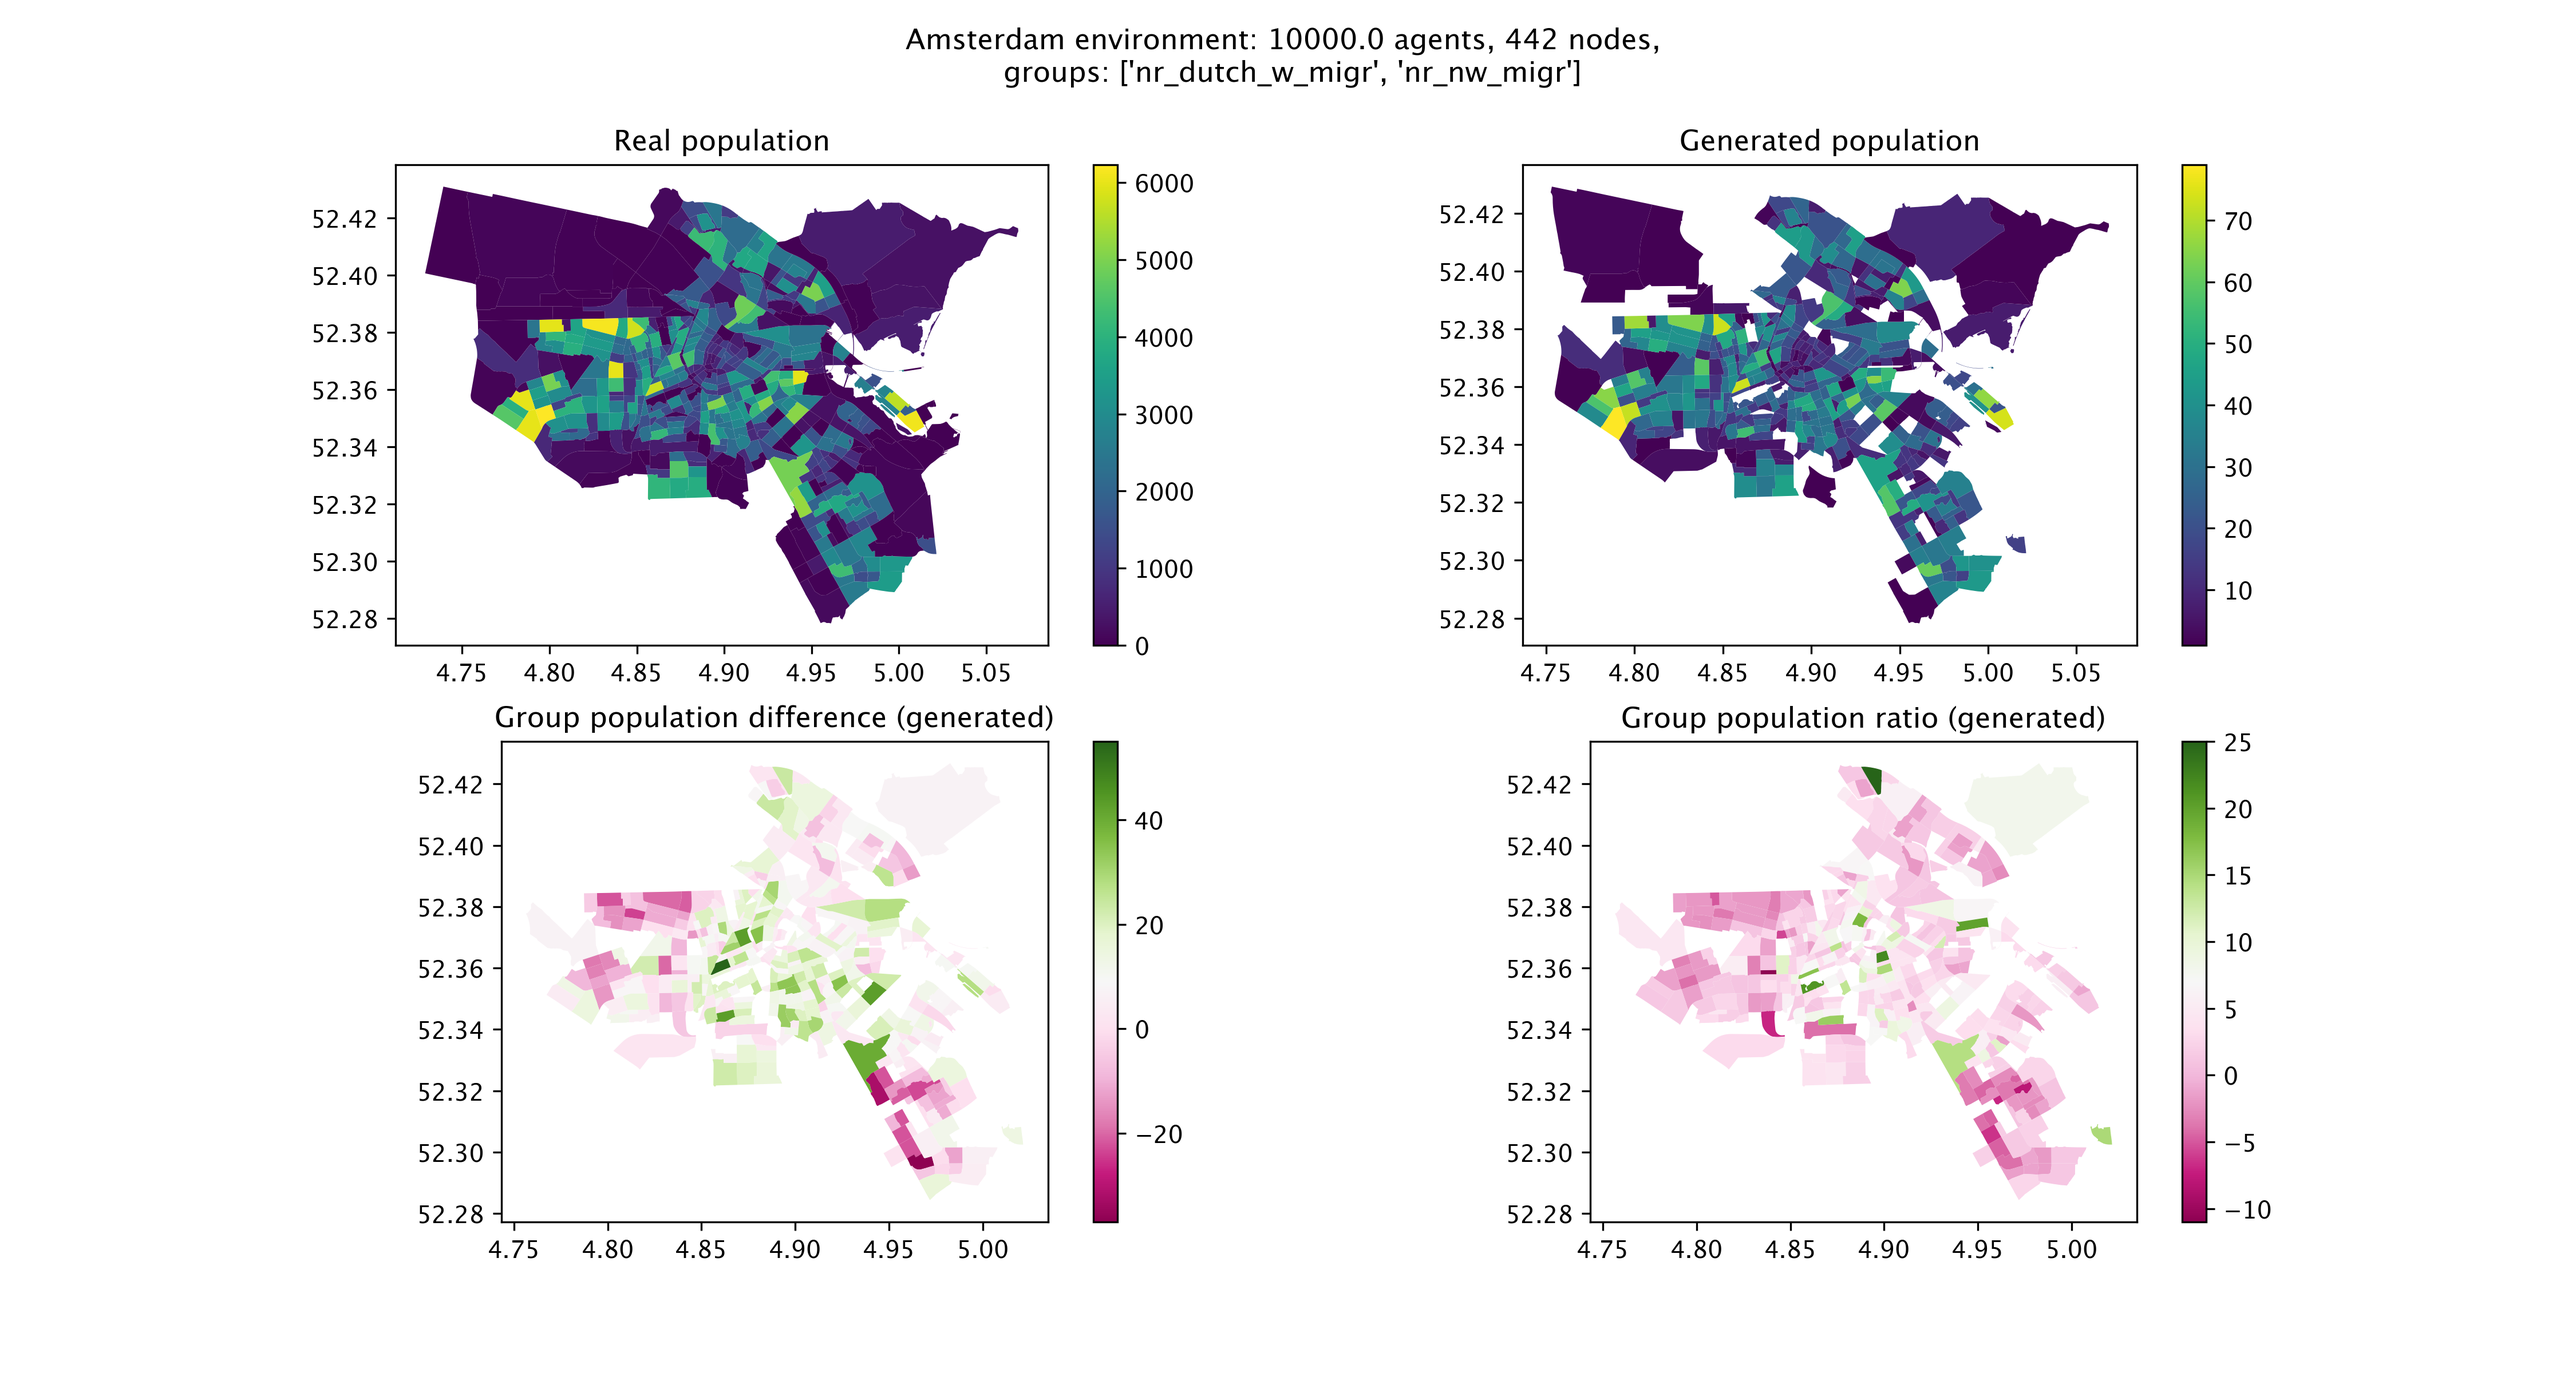
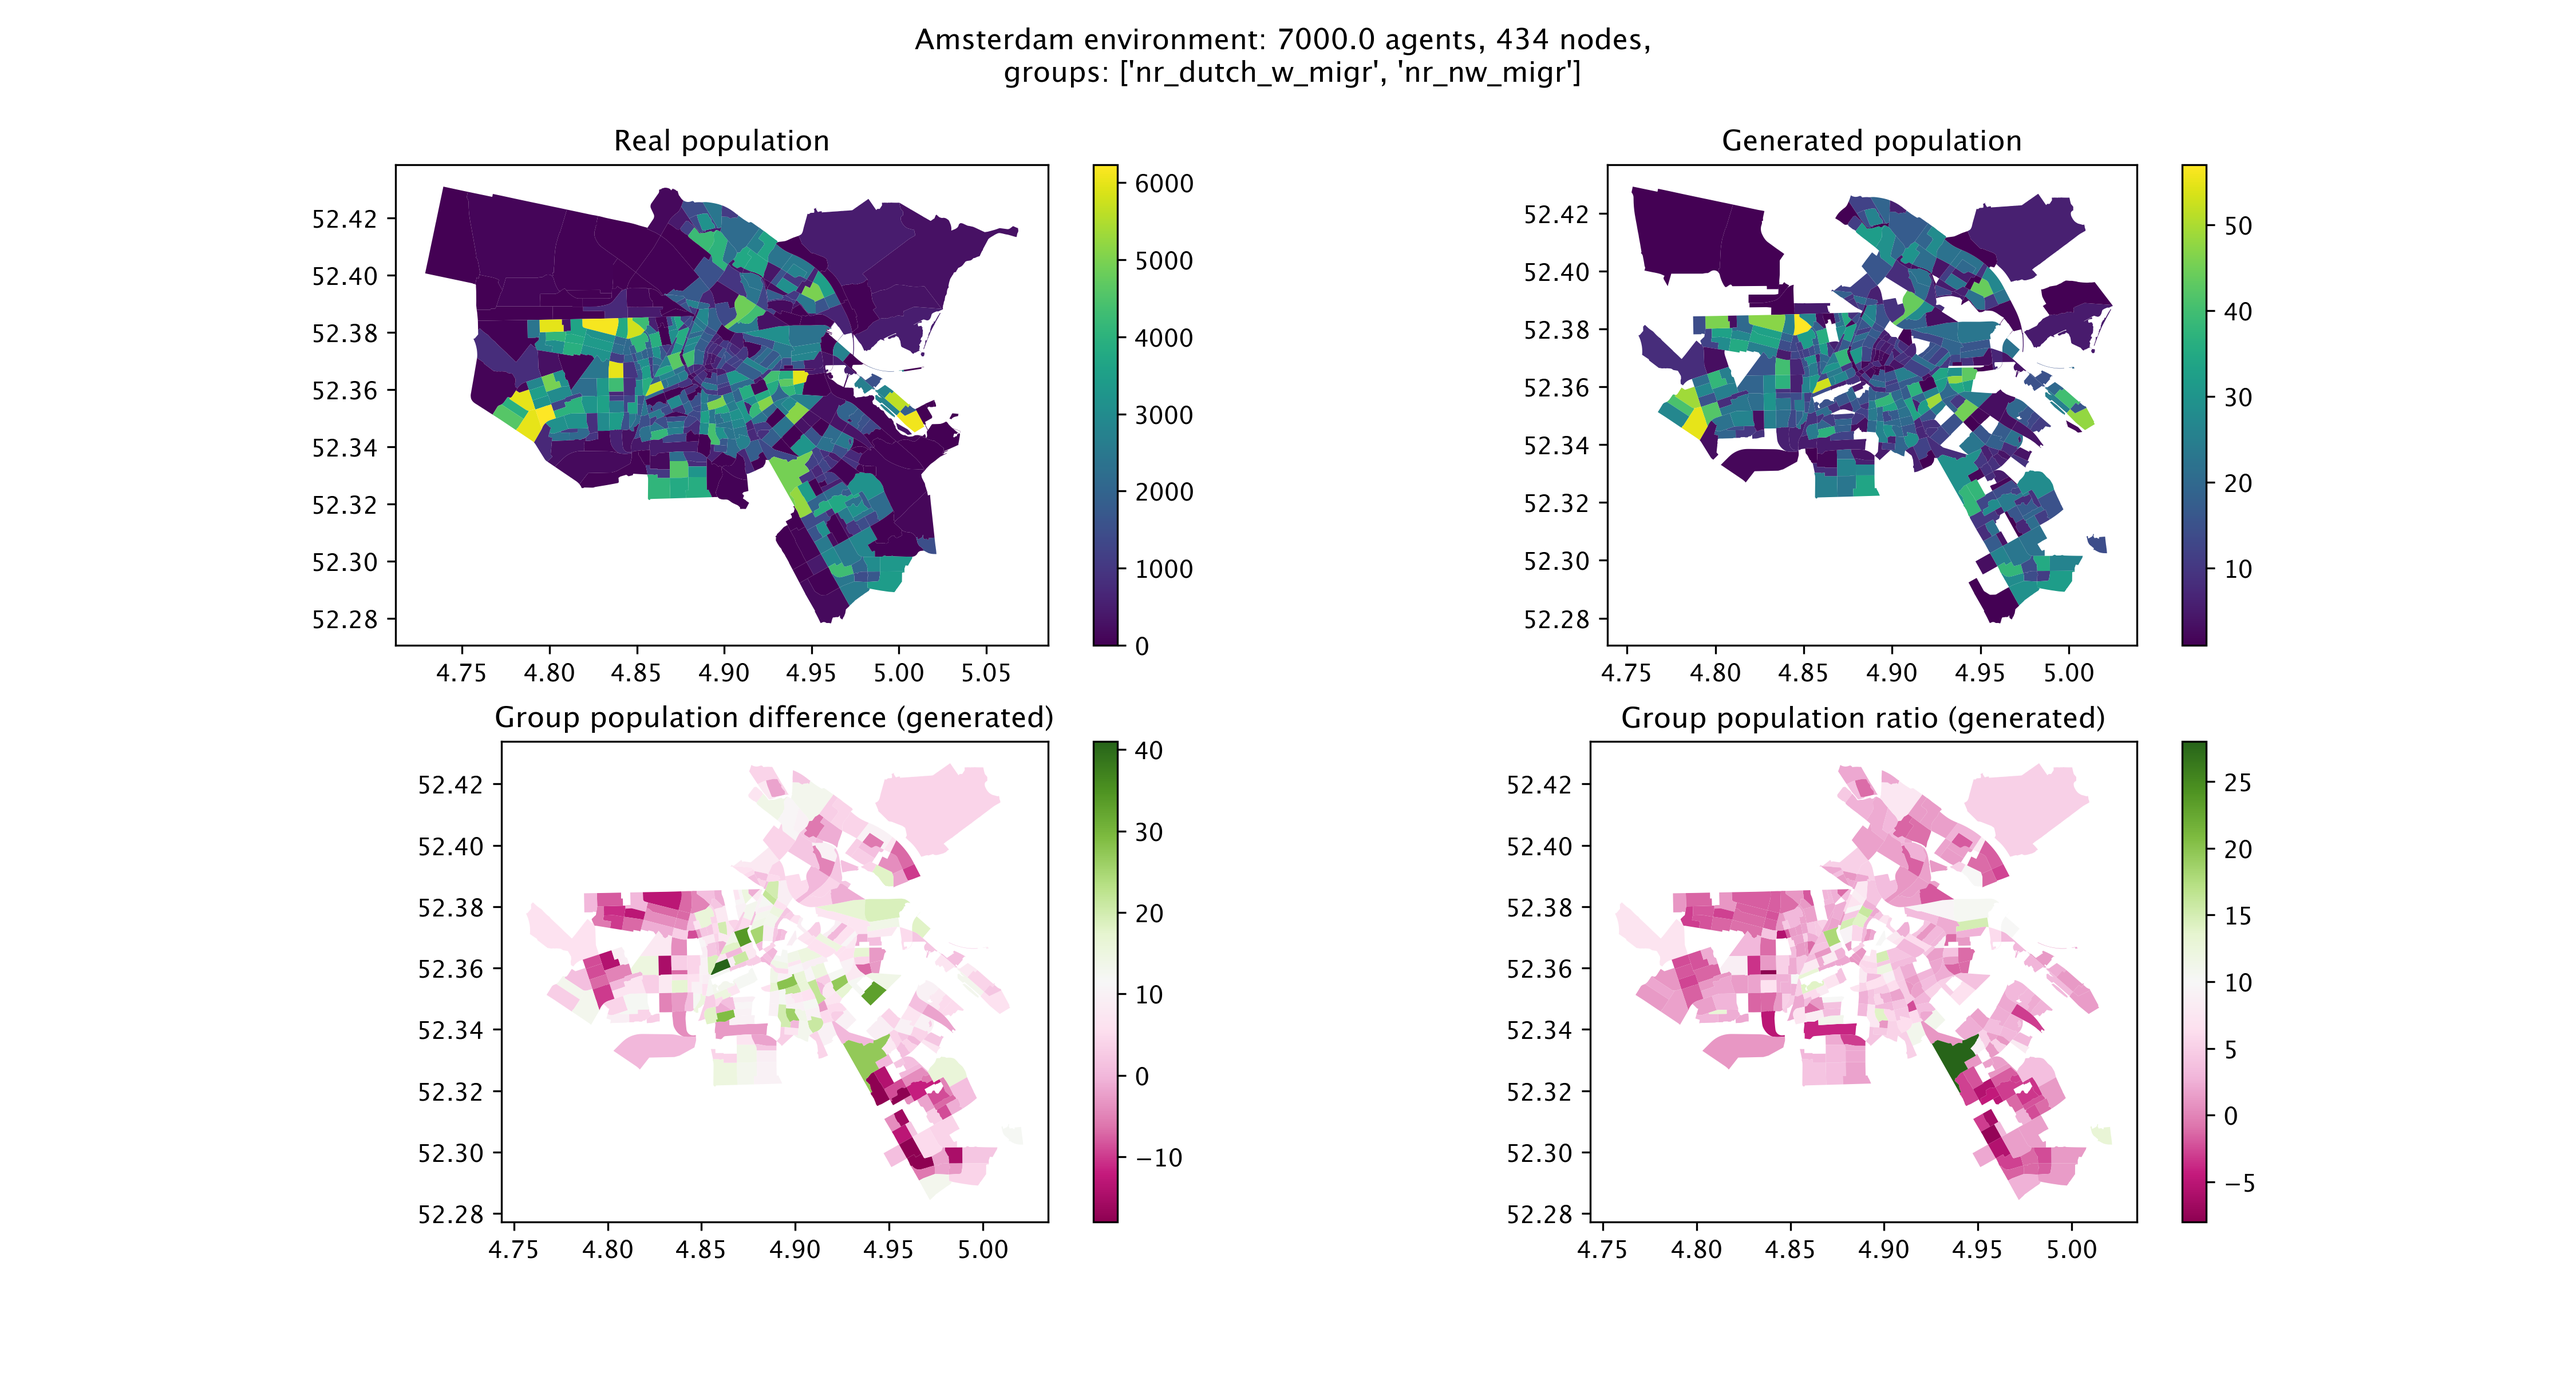
ams_env now generates 7k populatipon

diff --git a/result_plotter.py b/result_plotter.py
@@ -52,14 +52,22 @@ def plot_results(results, ax):
 
 # # results to plot
 results_ams = [
-        '20230213_11_22_58.311840_amsterdam_neighborhoods_50_5_25_1_distance_composition_random_serial_dictatorship_none',
-        '20230213_11_23_05.508838_amsterdam_neighborhoods_50_5_25_1_distance_composition_random_serial_dictatorship_random',
-        '20230213_11_23_16.596338_amsterdam_neighborhoods_50_5_25_1_distance_composition_random_serial_dictatorship_closeness',
-        '20230213_11_28_21.533442_amsterdam_neighborhoods_50_5_25_1_distance_composition_random_serial_dictatorship_group_closeness',
-        '20230213_11_23_27.183322_amsterdam_neighborhoods_50_5_25_1_distance_composition_random_serial_dictatorship_betweenness',
-        '20230213_15_26_16.628397_amsterdam_neighborhoods_50_5_25_1_distance_composition_random_serial_dictatorship_group_betweenness',
-        '20230213_11_24_02.853325_amsterdam_neighborhoods_50_5_25_1_distance_composition_random_serial_dictatorship_degree',
-        '20230213_11_28_34.792581_amsterdam_neighborhoods_50_5_25_1_distance_composition_random_serial_dictatorship_group_degree'
+        # '20230213_11_22_58.311840_amsterdam_neighborhoods_50_5_25_1_distance_composition_random_serial_dictatorship_none',
+        # '20230213_11_23_05.508838_amsterdam_neighborhoods_50_5_25_1_distance_composition_random_serial_dictatorship_random',
+        # '20230213_11_23_16.596338_amsterdam_neighborhoods_50_5_25_1_distance_composition_random_serial_dictatorship_closeness',
+        # '20230213_11_28_21.533442_amsterdam_neighborhoods_50_5_25_1_distance_composition_random_serial_dictatorship_group_closeness',
+        # '20230213_11_23_27.183322_amsterdam_neighborhoods_50_5_25_1_distance_composition_random_serial_dictatorship_betweenness',
+        # '20230213_15_26_16.628397_amsterdam_neighborhoods_50_5_25_1_distance_composition_random_serial_dictatorship_group_betweenness',
+        # '20230213_11_24_02.853325_amsterdam_neighborhoods_50_5_25_1_distance_composition_random_serial_dictatorship_degree',
+        # '20230213_11_28_34.792581_amsterdam_neighborhoods_50_5_25_1_distance_composition_random_serial_dictatorship_group_degree'
+        '20230216_12_17_38.193762_amsterdam_neighborhoods_50_5_25_1_distance_composition_random_serial_dictatorship_none',
+        '20230216_12_19_06.993941_amsterdam_neighborhoods_50_5_25_1_distance_composition_random_serial_dictatorship_random',
+        '20230216_12_19_12.579556_amsterdam_neighborhoods_50_5_25_1_distance_composition_random_serial_dictatorship_closeness',
+        '20230216_12_35_28.835175_amsterdam_neighborhoods_50_5_25_1_distance_composition_random_serial_dictatorship_group_closeness',
+        '20230216_12_19_57.731536_amsterdam_neighborhoods_50_5_25_1_distance_composition_random_serial_dictatorship_betweenness',
+        '20230216_16_30_50.088071_amsterdam_neighborhoods_50_5_25_1_distance_composition_random_serial_dictatorship_group_betweenness',
+        '20230216_12_35_17.607961_amsterdam_neighborhoods_50_5_25_1_distance_composition_random_serial_dictatorship_degree',
+        '20230216_12_35_40.385648_amsterdam_neighborhoods_50_5_25_1_distance_composition_random_serial_dictatorship_group_degree'
         ]
 
 # results to plot

diff --git a/envs/amsterdam_neighborhoods/generate_ams_neighborhoods.py b/envs/amsterdam_neighborhoods/generate_ams_neighborhoods.py
@@ -62,7 +62,7 @@ ig.write(graph_raw, 'network_raw.gml')
 # %% Generate population of agents for each node in the network.
 graph = ig.Graph.Read('network.gml')
 ams_nb['node_id'] = [v.index for v in nb_nodes]
-generated_pop = 10000
+generated_pop = 7000
 # Keep only relevant ses attributes.
 ams_ses = ams_ses[['BU_CODE', 'real_pop', 'nr_dutch', 'nr_w_migr', 'nr_nw_migr']]
 ams_ses.loc[:, 'nr_dutch_w_migr'] = ams_ses['nr_dutch'] + ams_ses['nr_w_migr']
